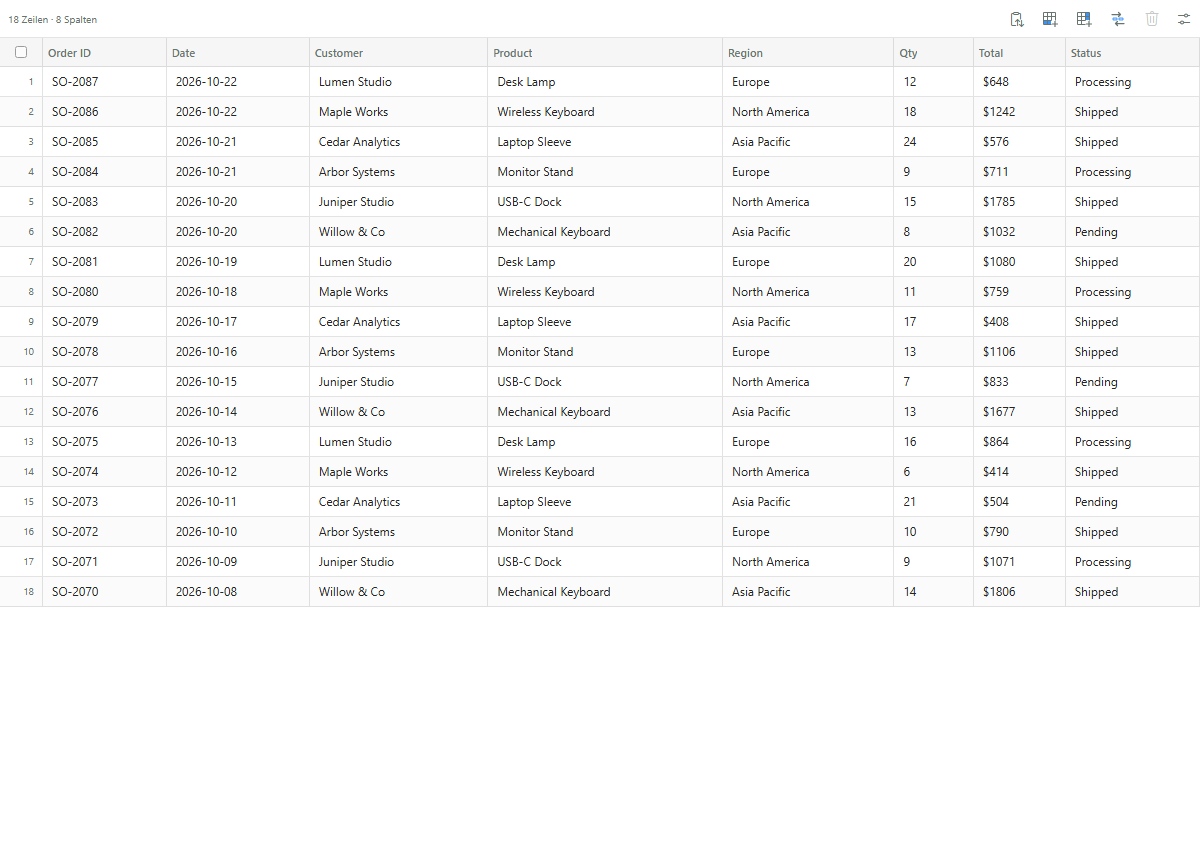
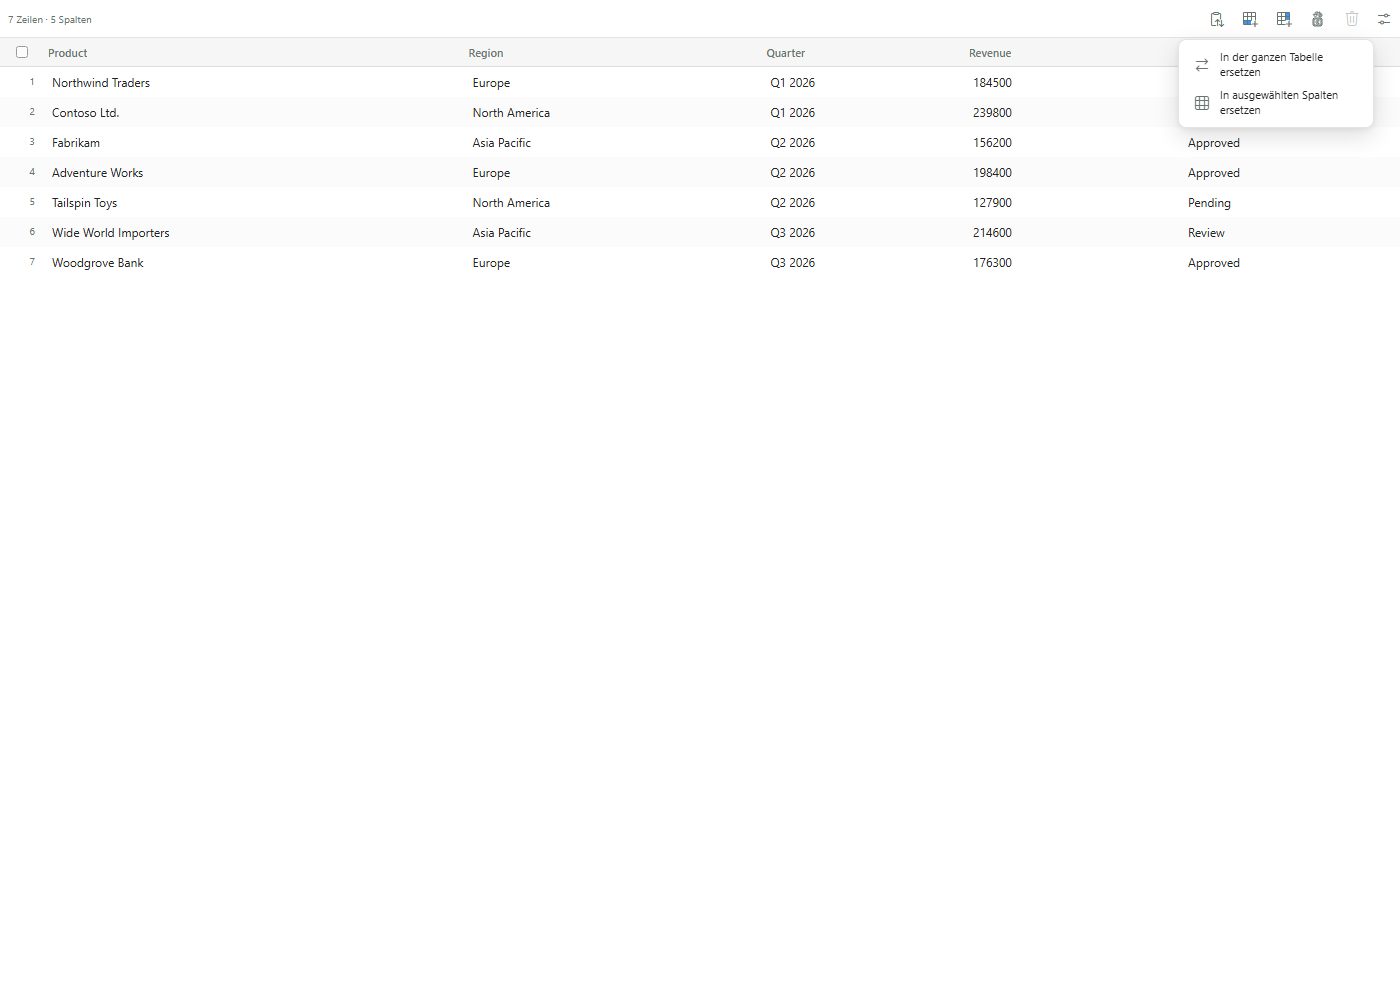
Release 1.4.9 with toolbar action menus

diff --git a/media/editor.js b/media/editor.js
@@ -131,6 +131,70 @@ const COMMON_UI_TRANSLATIONS = {
   it: { 'General':'Generale', 'Display':'Visualizzazione', 'File handling':'Gestione file', 'Tools':'Strumenti', 'Project':'Progetto', 'Language':'Lingua', 'Colorize columns':'Colora colonne', 'Fit columns to available width':'Adatta colonne alla larghezza disponibile', 'VS Code theme':'Tema di VS Code', 'Light':'Chiaro', 'Dark':'Scuro', 'Show table gridlines':'Mostra griglia', 'Open CSVs as tables':'Apri CSV come tabelle', 'Delimiter':'Delimitatore', 'Clear filters':'Cancella filtri', 'Clear sorting':'Cancella ordinamento', 'Open as text':'Apri come testo', 'Replace values':'Sostituisci valori', 'Suggest a change':'Suggerisci una modifica', 'Buy me a coffee':'Sostieni il progetto', 'Add row':'Aggiungi riga', 'Add column':'Aggiungi colonna', 'Delete selected rows':'Elimina righe selezionate', 'Paste table':'Incolla tabella', 'Reset column widths':'Reimposta larghezza colonne' },
 };
 Object.assign(TRANSLATIONS, COMMON_UI_TRANSLATIONS);
+Object.assign(TRANSLATIONS.de, {
+  'Insert column before selection': 'Spalte vor Auswahl einf\u00fcgen',
+  'Insert column after selection': 'Spalte nach Auswahl einf\u00fcgen',
+  'Add column at end': 'Spalte am Ende hinzuf\u00fcgen',
+  'Replace in whole table': 'In der ganzen Tabelle ersetzen',
+  'Replace in selected columns': 'In ausgew\u00e4hlten Spalten ersetzen',
+});
+Object.assign(TRANSLATIONS.fr, {
+  'Insert column before selection': 'Ins\u00e9rer une colonne avant la s\u00e9lection',
+  'Insert column after selection': 'Ins\u00e9rer une colonne apr\u00e8s la s\u00e9lection',
+  'Add column at end': 'Ajouter une colonne \u00e0 la fin',
+  'Replace in whole table': 'Remplacer dans tout le tableau',
+  'Replace in selected columns': 'Remplacer dans les colonnes s\u00e9lectionn\u00e9es',
+});
+Object.assign(TRANSLATIONS.es, {
+  'Insert column before selection': 'Insertar columna antes de la selecci\u00f3n',
+  'Insert column after selection': 'Insertar columna despu\u00e9s de la selecci\u00f3n',
+  'Add column at end': 'A\u00f1adir columna al final',
+  'Replace in whole table': 'Reemplazar en toda la tabla',
+  'Replace in selected columns': 'Reemplazar en columnas seleccionadas',
+});
+Object.assign(TRANSLATIONS.it, {
+  'Insert column before selection': 'Inserisci colonna prima della selezione',
+  'Insert column after selection': 'Inserisci colonna dopo la selezione',
+  'Add column at end': 'Aggiungi colonna alla fine',
+  'Replace in whole table': 'Sostituisci nell’intera tabella',
+  'Replace in selected columns': 'Sostituisci nelle colonne selezionate',
+});
+Object.assign(TRANSLATIONS['pt-br'], {
+  'Insert column before selection': 'Inserir coluna antes da seleção',
+  'Insert column after selection': 'Inserir coluna após a seleção',
+  'Add column at end': 'Adicionar coluna ao final',
+  'Replace in whole table': 'Substituir na tabela inteira',
+  'Replace in selected columns': 'Substituir nas colunas selecionadas',
+});
+Object.assign(TRANSLATIONS.ru, {
+  'Insert column before selection': 'Вставить столбец перед выбранными',
+  'Insert column after selection': 'Вставить столбец после выбранных',
+  'Add column at end': 'Добавить столбец в конец',
+  'Replace in whole table': 'Заменить во всей таблице',
+  'Replace in selected columns': 'Заменить в выбранных столбцах',
+});
+Object.assign(TRANSLATIONS.ko, {
+  'Insert column before selection': '선택 항목 앞에 열 삽입',
+  'Insert column after selection': '선택 항목 뒤에 열 삽입',
+  'Add column at end': '끝에 열 추가',
+  'Replace in whole table': '전체 표에서 바꾸기',
+  'Replace in selected columns': '선택한 열에서 바꾸기',
+});
+Object.assign(TRANSLATIONS.ja, {
+  'Insert column before selection': '選択範囲の前に列を挿入',
+  'Insert column after selection': '選択範囲の後に列を挿入',
+  'Add column at end': '末尾に列を追加',
+  'Replace in whole table': '表全体で置換',
+  'Replace in selected columns': '選択した列で置換',
+});
+Object.assign(TRANSLATIONS['zh-cn'], {
+  'Insert column before selection': '在所选内容前插入列',
+  'Insert column after selection': '在所选内容后插入列',
+  'Add column at end': '在末尾添加列',
+  'Replace in whole table': '替换整个表格中的内容',
+  'Replace in selected columns': '替换所选列中的内容',
+});
+
 Object.assign(TRANSLATIONS.es, { Interface: 'Interfaz', 'CSV settings': 'Ajustes CSV' });
 Object.assign(TRANSLATIONS.ja, { Interface: '\u30a4\u30f3\u30bf\u30fc\u30d5\u30a7\u30fc\u30b9', 'CSV settings': 'CSV \u8a2d\u5b9a' });
 Object.assign(TRANSLATIONS['zh-cn'], { Interface: '\u754c\u9762', 'CSV settings': 'CSV \u8bbe\u7f6e' });
@@ -177,8 +241,10 @@ const elements = {
   tableStatus: document.getElementById('table-status'),
   addRow: document.getElementById('add-row'),
   addColumn: document.getElementById('add-column'),
+  addColumnPopover: document.getElementById('add-column-popover'),
   deleteSelected: document.getElementById('delete-selected'),
   replaceValues: document.getElementById('replace-values'),
+  replaceValuesPopover: document.getElementById('replace-values-popover'),
   selectionCount: document.getElementById('selection-count'),
   delimiter: document.getElementById('delimiter-select'),
   settingsButton: document.getElementById('settings-button'),
@@ -1098,17 +1164,18 @@ function updateReplacementMatchCount() {
   elements.replaceSubmit.disabled = count === 0 || isUnchanged || (selectedScope && columns.length === 0);
 }
 
-function openReplaceValuesDialog() {
+function openReplaceValuesDialog(scope = 'all') {
   closePopovers();
   elements.replaceFind.value = '';
   elements.replaceWith.value = '';
-  elements.replaceForm.querySelector('input[name="replace-scope"][value="all"]').checked = true;
+  elements.replaceForm.querySelector(`input[name="replace-scope"][value="${scope}"]`).checked = true;
   elements.replaceForm.querySelector('input[name="replace-scope"][value="selected"]').disabled = sheet.headers.length === 0;
   elements.replaceColumns.replaceChildren(...sheet.headers.map((name, column) => {
     const label = createElement('label', 'replace-column-option');
     const checkbox = document.createElement('input');
     checkbox.type = 'checkbox';
     checkbox.dataset.replaceColumn = String(column);
+    checkbox.checked = scope === 'selected' && selectedColumns.has(column);
     const text = createElement('span', '', name.trim() || `${t('Column')} ${column + 1}`);
     text.title = text.textContent;
     label.append(checkbox, text);
@@ -1155,9 +1222,20 @@ function positionPopover(popover, anchor) {
   popover.style.top = `${top}px`;
 }
 
+function positionToolbarPopover(popover, anchor) {
+  popover.hidden = false;
+  const anchorRect = anchor.getBoundingClientRect();
+  const rect = popover.getBoundingClientRect();
+  const left = Math.max(8, Math.min(anchorRect.left, window.innerWidth - rect.width - 8));
+  let top = anchorRect.top - rect.height - 5;
+  if (top < 8) top = Math.min(window.innerHeight - rect.height - 8, anchorRect.bottom + 5);
+  popover.style.left = `${left}px`;
+  popover.style.top = `${top}px`;
+}
+
 function closePopovers(restoreFocus = false) {
   const anchor = popoverAnchor;
-  for (const popover of [elements.settingsPopover, elements.filterPopover, elements.contextPopover]) popover.hidden = true;
+  for (const popover of [elements.settingsPopover, elements.filterPopover, elements.contextPopover, elements.addColumnPopover, elements.replaceValuesPopover]) popover.hidden = true;
   document.querySelectorAll('[aria-expanded="true"]').forEach((button) => button.setAttribute('aria-expanded', 'false'));
   activePopover = null;
   activeColumn = -1;
@@ -1187,6 +1265,28 @@ function openSettingsPopover() {
   elements.settingsButton.setAttribute('aria-expanded', 'true');
   positionPopover(elements.settingsPopover, elements.settingsButton);
   elements.settingsPopover.focus({ preventScroll: true });
+}
+
+function openToolbarPopover(popover, anchor) {
+  if (activePopover === popover) {
+    closePopovers();
+    return;
+  }
+  closePopovers();
+  if (popover === elements.addColumnPopover) {
+    const selected = selectedColumns.size ? [...selectedColumns] : (selectedColumn >= 0 ? [selectedColumn] : []);
+    const before = popover.querySelector('[data-column-insert="before"]');
+    const after = popover.querySelector('[data-column-insert="after"]');
+    before.disabled = after.disabled = selected.length === 0;
+  }
+  if (popover === elements.replaceValuesPopover) {
+    popover.querySelector('[data-replace-scope="selected"]').disabled = selectedColumns.size === 0;
+  }
+  activePopover = popover;
+  popoverAnchor = anchor;
+  anchor.setAttribute('aria-expanded', 'true');
+  positionToolbarPopover(popover, anchor);
+  popover.querySelector('button:not(:disabled)')?.focus({ preventScroll: true });
 }
 
 function openFilterPopover(column, anchor) {
@@ -1355,15 +1455,20 @@ function addRow() {
   focusCell(row.id, 0);
 }
 
-async function addColumn() {
+async function addColumn(insertAt = sheet.headers.length) {
   const name = await openColumnDialog('add');
   if (!name) return;
-  sheet.headers.push(name);
-  sheet.rows.forEach((row) => row.cells.push(''));
-  columnFilters.push(null);
-  columnWidthOverrides.push(null);
+  const index = Math.max(0, Math.min(insertAt, sheet.headers.length));
+  sheet.headers.splice(index, 0, name);
+  sheet.rows.forEach((row) => row.cells.splice(index, 0, ''));
+  columnFilters.splice(index, 0, null);
+  columnWidthOverrides.splice(index, 0, null);
+  if (selectedColumn >= index) selectedColumn += 1;
+  const shiftedSelection = [...selectedColumns].map((column) => column >= index ? column + 1 : column);
+  selectedColumns.clear();
+  shiftedSelection.forEach((column) => selectedColumns.add(column));
   persistViewState();
-  recalculateColumnWidths([sheet.headers.length - 1]);
+  recalculateColumnWidths([index]);
   renderTable();
   sendEdit();
 }
@@ -1446,9 +1551,24 @@ elements.replaceForm.addEventListener('submit', (event) => {
 document.getElementById('replace-cancel').addEventListener('click', () => elements.replaceDialog.close('cancel'));
 elements.replaceDialog.addEventListener('close', () => elements.replaceValues.focus());
 document.getElementById('add-row').addEventListener('click', addRow);
-document.getElementById('add-column').addEventListener('click', () => void addColumn());
+elements.addColumn.addEventListener('click', () => openToolbarPopover(elements.addColumnPopover, elements.addColumn));
+elements.addColumnPopover.addEventListener('click', (event) => {
+  const option = event.target.closest('[data-column-insert]');
+  if (!option || option.disabled) return;
+  let index = sheet.headers.length;
+  const selected = selectedColumns.size ? [...selectedColumns] : (selectedColumn >= 0 ? [selectedColumn] : []);
+  if (option.dataset.columnInsert === 'before' && selected.length) index = Math.min(...selected);
+  else if (option.dataset.columnInsert === 'after' && selected.length) index = Math.max(...selected) + 1;
+  closePopovers();
+  void addColumn(index);
+});
 elements.deleteSelected.addEventListener('click', () => void deleteSelectedRows());
-elements.replaceValues.addEventListener('click', openReplaceValuesDialog);
+elements.replaceValues.addEventListener('click', () => openToolbarPopover(elements.replaceValuesPopover, elements.replaceValues));
+elements.replaceValuesPopover.addEventListener('click', (event) => {
+  const option = event.target.closest('[data-replace-scope]');
+  if (!option || option.disabled) return;
+  openReplaceValuesDialog(option.dataset.replaceScope);
+});
 elements.settingsButton.addEventListener('click', openSettingsPopover);
 elements.colorizeColumns.addEventListener('change', () => {
   colorizeColumns = elements.colorizeColumns.checked;
@@ -1719,7 +1839,7 @@ elements.delimiter.addEventListener('change', () => {
 });
 
 document.addEventListener('click', (event) => {
-  if (event.target.closest('.popover, #settings-button, [data-filter-toggle]')) return;
+  if (event.target.closest('.popover, #settings-button, #add-column, #replace-values, [data-filter-toggle]')) return;
   if (activePopover) closePopovers();
 });
 
@@ -1810,7 +1930,7 @@ document.addEventListener('click', (event) => {
 });
 
 elements.tableScroll.addEventListener('scroll', () => {
-  if (activePopover === elements.filterPopover || activePopover === elements.contextPopover || activePopover === elements.settingsPopover) closePopovers();
+  if (activePopover) closePopovers();
   scheduleVirtualRowRender();
 }, { passive: true });
 

diff --git a/media/index.html b/media/index.html
@@ -18,11 +18,11 @@
           <button class="tool-button" id="add-row" type="button" title="Add row" aria-label="Add row" data-i18n-title="Add row">
             <svg class="table-add-icon" viewBox="0 0 16 16" aria-hidden="true" focusable="false"><path class="table-add-highlight" d="M2 10h7v3H2Z"/><path d="M9 13.5H1.5v-12h12V9M1.5 5.5h12M1.5 9.5H9M5.5 1.5v12M9.5 1.5V9"/><path class="table-add-plus" d="M10.5 13h5M13 10.5v5"/></svg>
           </button>
-          <button class="tool-button" id="add-column" type="button" title="Add column" aria-label="Add column" data-i18n-title="Add column">
+          <button class="tool-button" id="add-column" type="button" title="Add column" aria-label="Add column" data-i18n-title="Add column" aria-haspopup="menu" aria-expanded="false">
             <svg class="table-add-icon" viewBox="0 0 16 16" aria-hidden="true" focusable="false"><path class="table-add-highlight" d="M10 2h3v7h-3Z"/><path d="M9 13.5H1.5v-12h12V9M1.5 5.5h12M1.5 9.5H9M5.5 1.5v12M9.5 1.5V9"/><path class="table-add-plus" d="M10.5 13h5M13 10.5v5"/></svg>
           </button>
-          <button class="tool-button" id="replace-values" type="button" title="Replace values" aria-label="Replace values" data-i18n-title="Replace values">
-            <svg class="replace-values-icon" viewBox="0 0 16 16" aria-hidden="true" focusable="false"><path d="M2 3.5h8.5M8.5 1.5l2 2-2 2M14 12.5H5.5M7.5 10.5l-2 2 2 2"/><path class="replace-values-cell" d="M3 7h4v2H3zM9 7h4v2H9z"/></svg>
+          <button class="tool-button" id="replace-values" type="button" title="Replace values" aria-label="Replace values" data-i18n-title="Replace values" aria-haspopup="menu" aria-expanded="false">
+            <svg class="replace-values-icon" viewBox="0 0 16 16" aria-hidden="true" focusable="false"><path fill-rule="evenodd" d="M3.221 3.739l2.261 2.269L7.7 3.784l-.7-.7-1.012 1.007-.008-1.6a.523.523 0 0 1 .5-.526H8V1H6.48A1.482 1.482 0 0 0 5 2.489V4.1L3.927 3.033l-.706.706zm6.67 1.794h.01c.183.311.451.467.806.467.393 0 .706-.168.94-.503.236-.335.353-.78.353-1.333 0-.511-.1-.913-.301-1.207-.201-.295-.488-.442-.86-.442-.405 0-.718.194-.938.581h-.01V1H9v4.919h.89v-.386zm-.015-1.061v-.34c0-.248.058-.448.175-.601a.54.54 0 0 1 .445-.23.49.49 0 0 1 .436.233c.104.154.155.368.155.643 0 .33-.056.587-.169.768a.524.524 0 0 1-.47.27.495.495 0 0 1-.411-.211.853.853 0 0 1-.16-.532zM9 12.769c-.256.154-.625.231-1.108.231-.563 0-1.02-.178-1.369-.533-.349-.355-.523-.813-.523-1.374 0-.648.186-1.158.56-1.53.374-.376.875-.563 1.5-.563.433 0 .746.06.94.179v.998a1.26 1.26 0 0 0-.792-.276c-.325 0-.583.1-.774.298-.19.196-.283.468-.283.816 0 .338.09.603.272.797.182.191.431.287.749.287.282 0 .558-.092.828-.276v.946zM4 7L3 8v6l1 1h7l1-1V8l-1-1H4zm0 1h7v6H4V8z"/></svg>
           </button>
           <button class="tool-button danger-tool" id="delete-selected" type="button" title="Delete selected rows" aria-label="Delete selected rows" data-i18n-title="Delete selected rows" disabled>
             <span class="codicon codicon-trash" aria-hidden="true"></span>
@@ -35,6 +35,16 @@
         </button>
       </div>
     </header>
+    <div class="popover toolbar-popover" id="add-column-popover" role="menu" aria-label="Add column" data-i18n-aria-label="Add column" hidden>
+      <button class="menu-action" type="button" data-column-insert="before"><span class="action-icon"><svg viewBox="0 0 16 16" aria-hidden="true"><path d="M13 8H3m0 0 3-3m-3 3 3 3"/></svg></span><span data-i18n="Insert column before selection">Insert column before selection</span></button>
+      <button class="menu-action" type="button" data-column-insert="after"><span class="action-icon"><svg viewBox="0 0 16 16" aria-hidden="true"><path d="M3 8h10m0 0-3-3m3 3-3 3"/></svg></span><span data-i18n="Insert column after selection">Insert column after selection</span></button>
+      <span class="menu-separator" aria-hidden="true"></span>
+      <button class="menu-action" type="button" data-column-insert="end"><span class="action-icon"><span class="codicon codicon-add" aria-hidden="true"></span></span><span data-i18n="Add column at end">Add column at end</span></button>
+    </div>
+    <div class="popover toolbar-popover" id="replace-values-popover" role="menu" aria-label="Replace values" data-i18n-aria-label="Replace values" hidden>
+      <button class="menu-action" type="button" data-replace-scope="all"><span class="action-icon"><span class="codicon codicon-arrow-swap" aria-hidden="true"></span></span><span data-i18n="Replace in whole table">Replace in whole table</span></button>
+      <button class="menu-action" type="button" data-replace-scope="selected"><span class="action-icon"><span class="codicon codicon-table" aria-hidden="true"></span></span><span data-i18n="Replace in selected columns">Replace in selected columns</span></button>
+    </div>
     <section class="table-scroll" id="table-scroll" aria-label="CSV table">
       <table id="csv-table" aria-label="Editable CSV data">
         <colgroup id="table-columns"></colgroup>
@@ -45,6 +55,11 @@
 
     <div class="popover settings-popover" id="settings-popover" hidden tabindex="-1">
       <div class="settings-section-label" data-i18n="Tools">Tools</div>
+      <button class="menu-action" type="button" data-action="clear-filters"><span class="action-icon"><span class="codicon codicon-filter" aria-hidden="true"></span></span><span data-i18n="Clear filters">Clear filters</span></button>
+      <button class="menu-action" type="button" data-action="clear-sort"><span class="action-icon"><span class="codicon codicon-arrow-swap" aria-hidden="true"></span></span><span data-i18n="Clear sorting">Clear sorting</span></button>
+      <button class="menu-action" type="button" data-action="open-text"><span class="action-icon"><span class="codicon codicon-file-code" aria-hidden="true"></span></span><span data-i18n="Open as text">Open as text</span></button>
+      <span class="menu-separator" aria-hidden="true"></span>
+      <div class="settings-section-label" data-i18n="CSV settings">CSV settings</div>
       <label class="delimiter-setting" for="delimiter-select">
         <span class="action-icon"><span class="codicon codicon-symbol-structure" aria-hidden="true"></span></span>
         <span class="setting-copy" data-i18n="Delimiter">Delimiter</span>
@@ -55,11 +70,6 @@
           <option value="|" data-i18n="Pipe |">Pipe |</option>
         </select>
       </label>
-      <button class="menu-action" type="button" data-action="clear-filters"><span class="action-icon"><span class="codicon codicon-filter" aria-hidden="true"></span></span><span data-i18n="Clear filters">Clear filters</span></button>
-      <button class="menu-action" type="button" data-action="clear-sort"><span class="action-icon"><span class="codicon codicon-arrow-swap" aria-hidden="true"></span></span><span data-i18n="Clear sorting">Clear sorting</span></button>
-      <button class="menu-action" type="button" data-action="open-text"><span class="action-icon"><span class="codicon codicon-file-code" aria-hidden="true"></span></span><span data-i18n="Open as text">Open as text</span></button>
-      <span class="menu-separator" aria-hidden="true"></span>
-      <div class="settings-section-label" data-i18n="CSV settings">CSV settings</div>
       <label class="setting-toggle" for="colorize-columns">
         <span class="setting-control"><input id="colorize-columns" type="checkbox"></span>
         <span class="setting-copy" data-i18n="Colorize columns">Colorize columns</span>

diff --git a/media/editor.css b/media/editor.css
@@ -43,10 +43,9 @@ svg { display: block; width: 16px; height: 16px; fill: none; stroke: currentColo
 .tool-button:focus-visible, .header-button:focus-visible, .sort-button:focus-visible, .menu-action:focus-visible, .dialog-button:focus-visible { outline: 2px solid var(--focus); outline-offset: -2px; }
 .tool-button > .codicon { font-size: 16px; }
 .table-add-icon { width: 16px; height: 16px; stroke-width: 1; stroke-linecap: square; stroke-linejoin: miter; }
+.replace-values-icon { width: 16px; height: 16px; fill: none; stroke: currentColor; stroke-width: 1; stroke-linecap: round; stroke-linejoin: round; }
 .table-add-highlight { fill: var(--vscode-charts-blue, #3794ff); stroke: none; }
 .table-add-plus { stroke-width: 1.2; }
-.replace-values-icon { width: 16px; height: 16px; stroke: currentColor; stroke-width: 1.25; }
-.replace-values-cell { fill: color-mix(in srgb, var(--vscode-charts-blue, #3794ff) 18%, transparent); stroke: var(--vscode-charts-blue, #3794ff); stroke-width: .9; }
 .danger-tool:hover:not(:disabled) { color: var(--danger); }
 .selection-count { position: absolute; top: -2px; right: -3px; display: grid; min-width: 14px; height: 14px; place-items: center; padding: 0 3px; border-radius: 7px; color: var(--vscode-button-foreground, #fff); background: var(--accent); font-size: 9px; line-height: 14px; font-variant-numeric: tabular-nums; }
 .toolbar-divider { display: none; }
@@ -117,6 +116,7 @@ tbody .data-cell:focus { outline: 1px solid var(--focus); outline-offset: -1px; 
 .settings-popover { width: 290px; outline: 0; }
 .filter-popover { width: 270px; padding: 9px; }
 .context-popover { width: 252px; }
+.toolbar-popover { width: 196px; }
 .menu-label, .popover-caption { display: block; overflow: hidden; padding: 4px 6px; color: var(--muted); font-size: 10px; font-weight: 600; text-overflow: ellipsis; white-space: nowrap; }
 .popover select, .filter-popover input[type="search"] { width: 100%; height: 30px; padding: 0 8px; border: 1px solid var(--vscode-input-border, var(--border)); border-radius: 4px; outline: 0; color: var(--foreground); background: var(--vscode-input-background, var(--background)); font-size: 12px; }
 .settings-popover select { width: auto; max-width: 100%; min-width: 0; justify-self: start; }

diff --git a/README.md b/README.md
@@ -21,8 +21,8 @@ View and edit CSV and TSV files as tables in Visual Studio Code. CSV Simple Edit
 - Optionally colorizes columns with colors from the active VS Code theme. CSV files do not store cell colors.
 - Optionally shows subtle gridlines between table rows and columns.
 - Lets you choose whether CSV and TSV files open in the table by default from the table settings or VS Code's extension settings.
-- Adds rows and columns; deletes selected rows or individual columns.
-- Replaces exact cell values across the table or selected columns from the toolbar.
+- Adds rows and columns; the column menu can insert before or after selected columns or append at the end. Deletes selected rows or individual columns.
+- Replaces exact cell values across the table or selected columns from the toolbar menu.
 - Offers ten interface languages and System, Light, or Dark appearance settings.
 - Syncs edits with the regular VS Code document. Save with `Ctrl+S` / `Cmd+S`.
 - Changes the delimiter and clears filters or sorting from the Tools menu. CSV options, language, and appearance are grouped in settings.
@@ -36,7 +36,7 @@ Automatic column widths fit the header, filter control, and the widest cell valu
 
 Column filters list the distinct values with checkboxes and occurrence counts, including blank cells. Search narrows the list and applies a case-insensitive contains condition; the checked values further restrict the result by exact value. Search and selection changes apply immediately, and Escape or clicking outside closes the filter without undoing them. Other active column filters determine the available values. Long lists load in batches via Show more values, and search covers the entire list. Use Clear filter to reset a column, or Clear filters in Table settings to reset every column.
 
-Use the Replace values toolbar button to replace an exact cell value throughout the table or in one or more selected columns. Matching is case-sensitive, and column headers are left unchanged. The operation updates the CSV document as one edit, which can be undone with VS Code's Undo command.
+Use the Replace values toolbar menu to choose the whole table or selected columns, then replace an exact cell value. Matching is case-sensitive, and column headers are left unchanged. The operation updates the CSV document as one edit, which can be undone with VS Code's Undo command.
 
 Paste CSV or tab-separated data into an empty file with `Ctrl+V` / `Cmd+V` to create a table immediately (the first row becomes the column names). The clipboard toolbar button also reads the clipboard. With an existing table, a preview lets you append rows or replace the table, select a delimiter, import with or without column names, skip empty rows, and remove exact duplicate rows across the resulting table.
 

diff --git a/CHANGELOG.md b/CHANGELOG.md
@@ -1,5 +1,11 @@
 # Changelog
 
+## 1.4.9
+
+- Add compact toolbar menus for inserting columns before or after the selection, appending columns, and choosing the scope for value replacement.
+- Match the value replacement icon's line weight to the table toolbar icons and refresh the Marketplace screenshots.
+- Move the delimiter selector into CSV settings and refine the settings menu grouping.
+
 ## 1.4.8
 
 - Reorganize settings into Tools, CSV settings, File handling, and Interface; move the theme and language controls into Interface.
